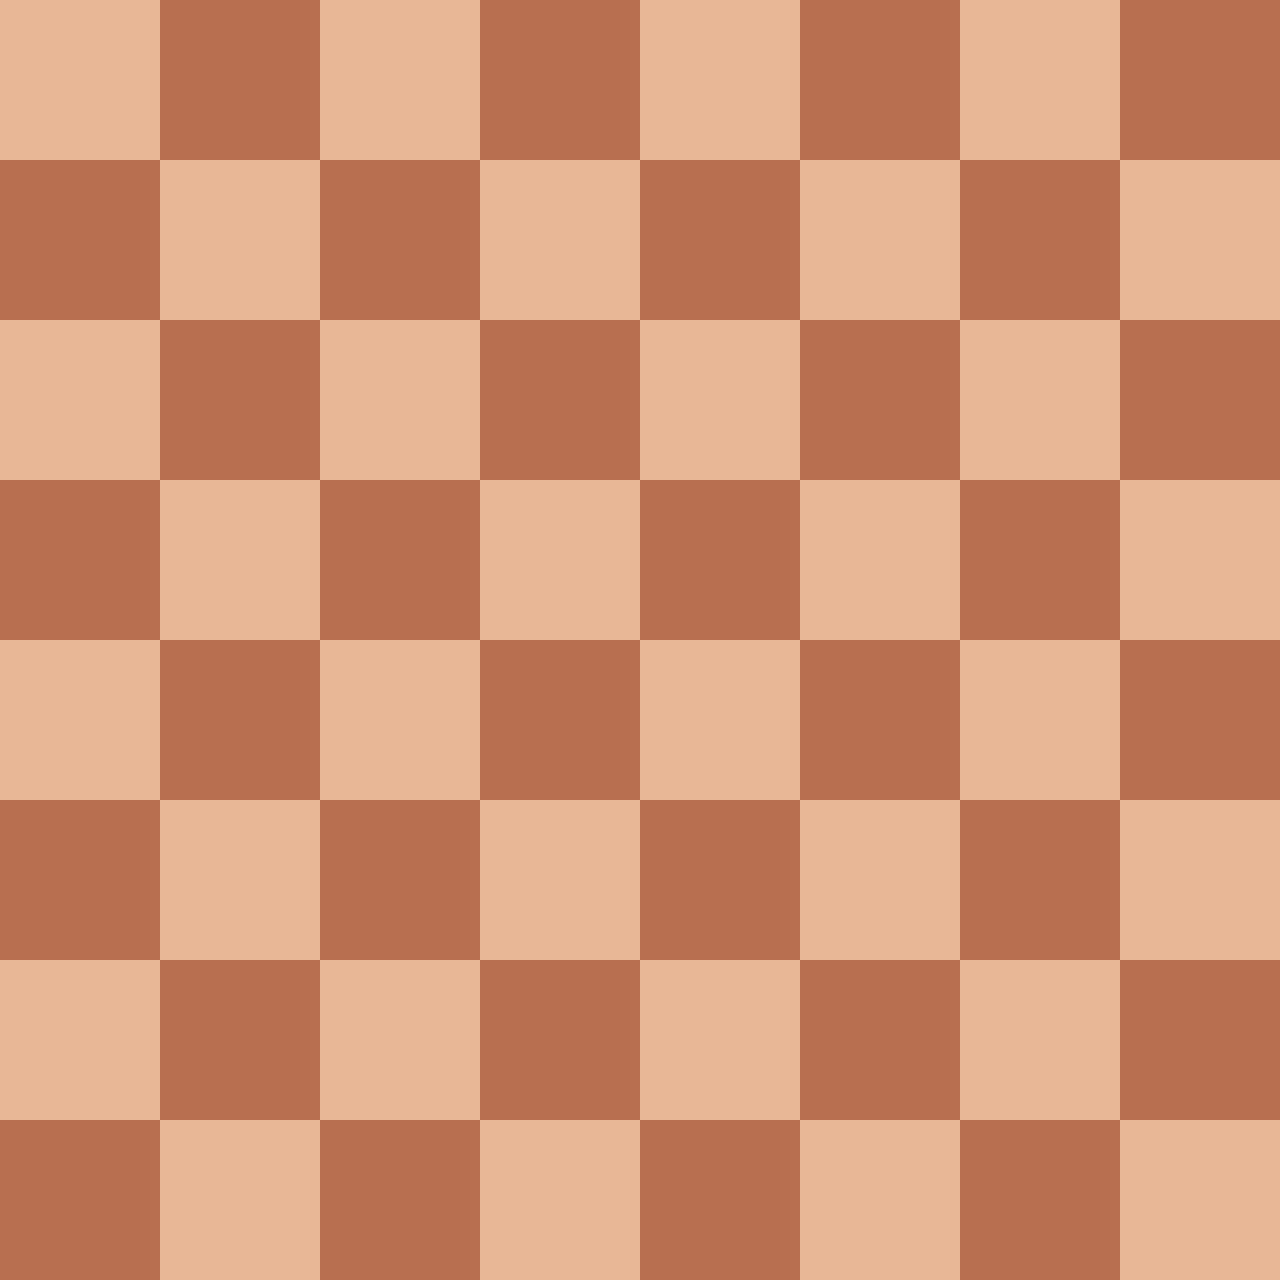
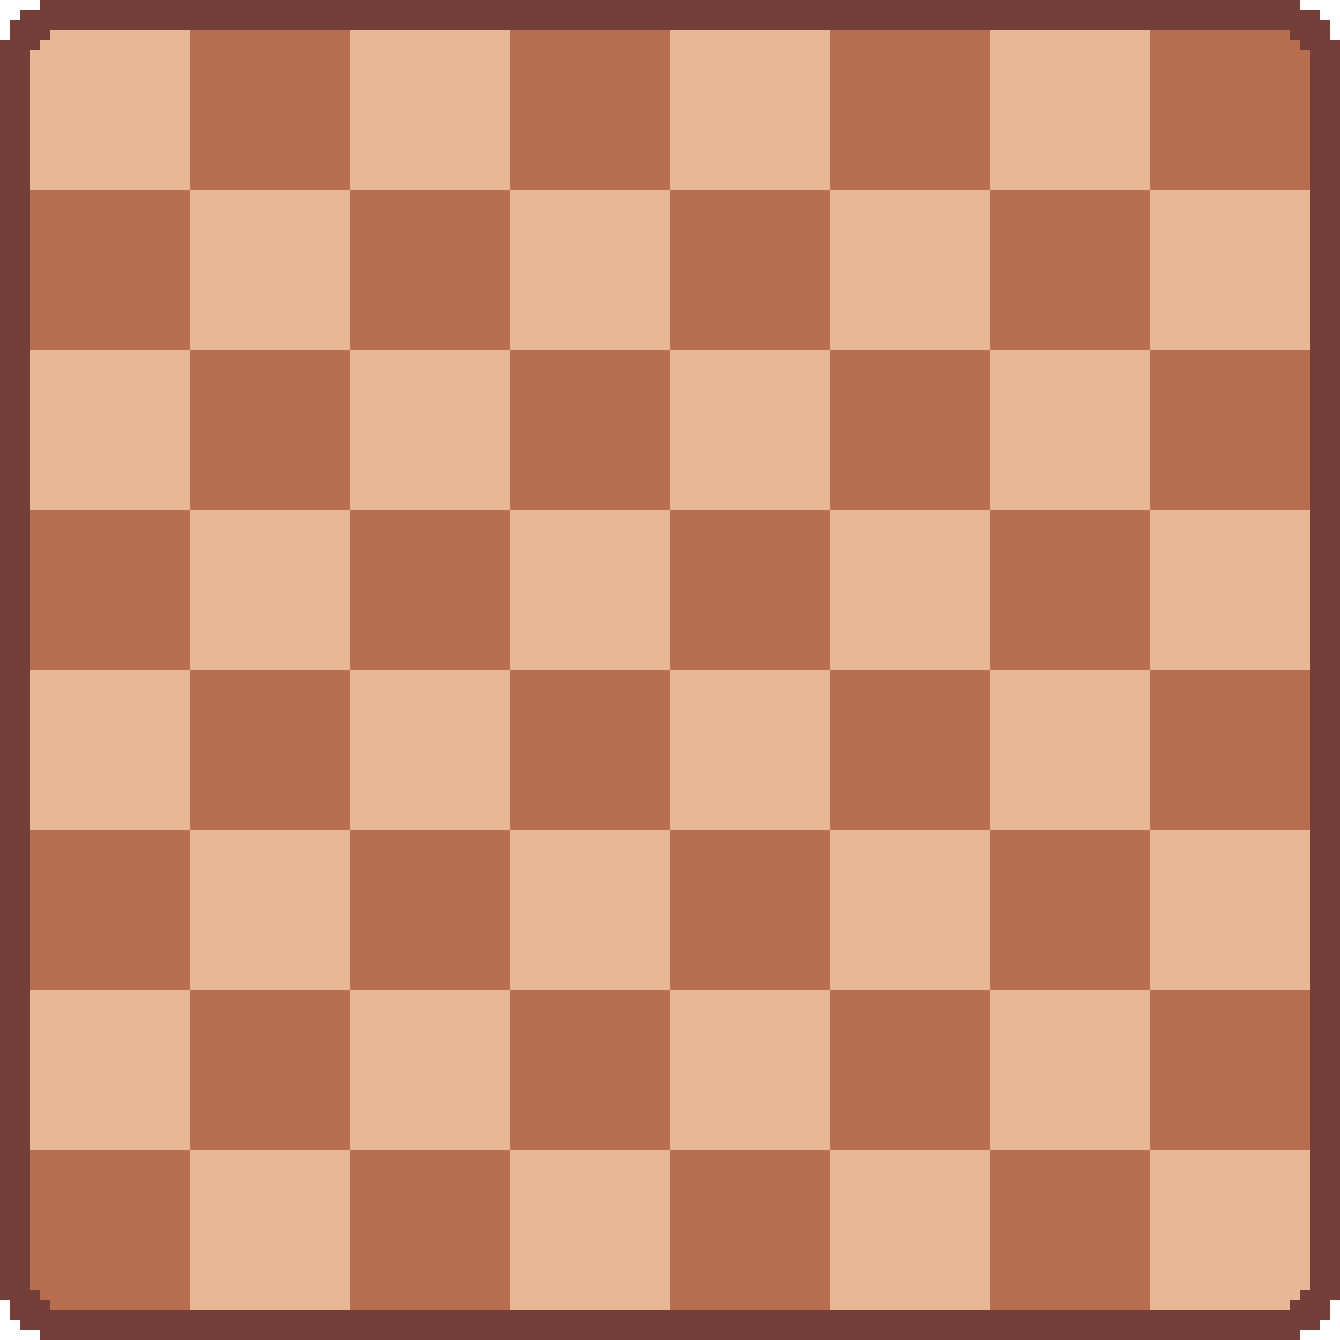
border and taken pieces panel

Changed region(s): [[0.0, 0.0, 1.0, 1.0]]

diff --git a/src/ui/mod.rs b/src/ui/mod.rs
@@ -8,6 +8,7 @@ use ggez::{event, graphics, Context, GameError, GameResult};
 use good_web_game::{self as ggez, timer};
 use good_web_game::graphics::Color;
 
+use logic::determine_taken_pieces_images;
 use miniquad::GraphicsContext;
 use std::collections::HashMap;
 
@@ -73,7 +74,7 @@ impl Engine {
     }
 
     fn load_images(ctx: &mut Context, quad_ctx: &mut GraphicsContext) -> HashMap<String, Image> {
-        [
+        let mut images = [
             ("board", "/assets/board.png"),
             ("black pawn", "/assets/pieces/piece_black_pawn.png"),
             ("black knight", "/assets/pieces/piece_black_knight.png"),
@@ -92,12 +93,59 @@ impl Engine {
         ]
         .map(|(key, value)| (key.to_string(), Image::new(ctx, quad_ctx, value).unwrap()))
         .into_iter()
-        .collect()
+        .collect::<HashMap<String, Image>>();
+
+        [
+            ("taken pieces panel empty", "/assets/taken_panel/taken_pieces_panel_empty.png"),
+            ("taken pieces panel white pawn 1", "/assets/taken_panel/taken_pieces_panel_white_pawn_1.png"),
+            ("taken pieces panel white pawn 2", "/assets/taken_panel/taken_pieces_panel_white_pawn_2.png"),
+            ("taken pieces panel white pawn 3", "/assets/taken_panel/taken_pieces_panel_white_pawn_3.png"),
+            ("taken pieces panel white pawn 4", "/assets/taken_panel/taken_pieces_panel_white_pawn_4.png"),
+            ("taken pieces panel white pawn 5", "/assets/taken_panel/taken_pieces_panel_white_pawn_5.png"),
+            ("taken pieces panel white pawn 6", "/assets/taken_panel/taken_pieces_panel_white_pawn_6.png"),
+            ("taken pieces panel white pawn 7", "/assets/taken_panel/taken_pieces_panel_white_pawn_7.png"),
+            ("taken pieces panel white pawn 8", "/assets/taken_panel/taken_pieces_panel_white_pawn_8.png"),
+            ("taken pieces panel white knight 1", "/assets/taken_panel/taken_pieces_panel_white_knight_1.png"),
+            ("taken pieces panel white knight 2", "/assets/taken_panel/taken_pieces_panel_white_knight_2.png"),
+            ("taken pieces panel white bishop 1", "/assets/taken_panel/taken_pieces_panel_white_bishop_1.png"),
+            ("taken pieces panel white bishop 2", "/assets/taken_panel/taken_pieces_panel_white_bishop_2.png"),
+            ("taken pieces panel white rook 1", "/assets/taken_panel/taken_pieces_panel_white_rook_1.png"),
+            ("taken pieces panel white rook 2", "/assets/taken_panel/taken_pieces_panel_white_rook_2.png"),
+            ("taken pieces panel white queen", "/assets/taken_panel/taken_pieces_panel_white_queen.png"),
+            ("taken pieces panel black pawn 1", "/assets/taken_panel/taken_pieces_panel_black_pawn_1.png"),
+            ("taken pieces panel black pawn 2", "/assets/taken_panel/taken_pieces_panel_black_pawn_2.png"),
+            ("taken pieces panel black pawn 3", "/assets/taken_panel/taken_pieces_panel_black_pawn_3.png"),
+            ("taken pieces panel black pawn 4", "/assets/taken_panel/taken_pieces_panel_black_pawn_4.png"),
+            ("taken pieces panel black pawn 5", "/assets/taken_panel/taken_pieces_panel_black_pawn_5.png"),
+            ("taken pieces panel black pawn 6", "/assets/taken_panel/taken_pieces_panel_black_pawn_6.png"),
+            ("taken pieces panel black pawn 7", "/assets/taken_panel/taken_pieces_panel_black_pawn_7.png"),
+            ("taken pieces panel black pawn 8", "/assets/taken_panel/taken_pieces_panel_black_pawn_8.png"),
+            ("taken pieces panel black knight 1", "/assets/taken_panel/taken_pieces_panel_black_knight_1.png"),
+            ("taken pieces panel black knight 2", "/assets/taken_panel/taken_pieces_panel_black_knight_2.png"),
+            ("taken pieces panel black bishop 1", "/assets/taken_panel/taken_pieces_panel_black_bishop_1.png"),
+            ("taken pieces panel black bishop 2", "/assets/taken_panel/taken_pieces_panel_black_bishop_2.png"),
+            ("taken pieces panel black rook 1", "/assets/taken_panel/taken_pieces_panel_black_rook_1.png"),
+            ("taken pieces panel black rook 2", "/assets/taken_panel/taken_pieces_panel_black_rook_2.png"),
+            ("taken pieces panel black queen", "/assets/taken_panel/taken_pieces_panel_black_queen.png"),
+        ]
+        .map(|(key, value)| (key.to_string(), Image::new(ctx, quad_ctx, value).unwrap()))
+        .into_iter()
+        .for_each(|(key, value)| {
+            images.insert(key, value);
+        });
+
+        for i in 0..16 {
+            let key = format!("bottom panel {}", i);
+            let value = Image::new(ctx, quad_ctx, &format!("/assets/bottom_panel/chess_bottom_panel_{}.png", i)).unwrap();
+            images.insert(key, value);
+        }
+
+        images
     }
 
     fn calculate_offsets(window_width: f32, window_height: f32) -> Point2<f32> {
-        const GAME_IMAGES_WIDTH: f32 = 1280.0;
-        const GAME_IMAGES_HEIGHT: f32 = 1280.0;
+        const GAME_IMAGES_WIDTH: f32 = 30.0 + 1280.0 + 30.0;
+        const GAME_IMAGES_HEIGHT: f32 = 30.0 + 1280.0 + 30.0 + 150.0;
 
         let scale: Vector2<f32> = Engine::calculate_scale(window_width, window_height);
 
@@ -108,8 +156,8 @@ impl Engine {
     }
 
     fn calculate_scale(window_width: f32, window_height: f32) -> Vector2<f32> {
-        const GAME_IMAGES_WIDTH: f32 = 1280.0;
-        const GAME_IMAGES_HEIGHT: f32 = 1280.0;
+        const GAME_IMAGES_WIDTH: f32 = 30.0 + 1280.0 + 30.0;
+        const GAME_IMAGES_HEIGHT: f32 = 30.0 + 1280.0 + 30.0 + 150.0;
 
         let window_ratio: f32 = window_width / window_height;
         let game_images_ratio: f32 = GAME_IMAGES_WIDTH / GAME_IMAGES_HEIGHT;
@@ -237,6 +285,19 @@ impl EventHandler<GameError> for Engine {
                         let _ = graphics::draw(ctx, quad_ctx, &image, param);
                     }
                 });
+        }
+
+        /* Taken pieces panel */
+        let image: Image = self.images.get("taken pieces panel empty").unwrap().clone();
+        let dest: Point2<f32> = Point2::new(
+            self.offsets.x + 30.0 * self.scales.x,
+            self.offsets.y + (30.0 + 1280.0 + 30.0) * self.scales.y);
+            
+        let param: DrawParam = DrawParam::new().dest(dest).scale(self.scales);
+        graphics::draw( ctx, quad_ctx, &image, param)?;
+            
+        for image in determine_taken_pieces_images(&self.images, &self.game.board) {            
+            graphics::draw( ctx, quad_ctx, &image, param)?;
         }
 
         /* Grabbed Piece */

diff --git a/src/ui/logic.rs b/src/ui/logic.rs
@@ -4,10 +4,13 @@ use ggez::cgmath::{Point2, Vector2};
 use ggez::graphics::Image;
 use good_web_game as ggez;
 
+use crate::core::board::Board;
 use crate::core::{
     piece::{Piece, PieceType},
     position::Position,
 };
+
+const BOARD_BOARDER: f32 = 30.0;
 
 fn valid_click_coordinates(x: f32, y: f32) -> bool {
     x > 0.0 && y > 0.0 && x < 1280.0 && y < 1280.0
@@ -26,14 +29,83 @@ pub fn get_position_of_coordinates(
     offsets: &Point2<f32>,
     scales: &Vector2<f32>,
 ) -> Option<Position> {
-    let logical_x: f32 = (x - offsets.x) / scales.x;
-    let logical_y: f32 = (y - offsets.y) / scales.y;
+    let logical_x: f32 = (x - offsets.x) / scales.x - BOARD_BOARDER;
+    let logical_y: f32 = (y - offsets.y) / scales.y - BOARD_BOARDER;
 
     if !valid_click_coordinates(logical_x, logical_y) {
         return None;
     }
 
     Some(get_position(logical_x, logical_y))
+}
+
+pub fn determine_taken_pieces_images(images: &HashMap<String, Image>, board: &Board) -> Vec<Image> {
+    let white_pawn_count: u32 = (board.layer_color & board.layer_pawn).count_ones();
+    let white_knight_count: u32 = (board.layer_color & board.layer_knight).count_ones();
+    let white_bishop_count: u32 = (board.layer_color & board.layer_bishop).count_ones();
+    let white_rook_count: u32 = (board.layer_color & board.layer_rook).count_ones();
+    let white_queen_count: u32 = (board.layer_color & board.layer_queen).count_ones();
+    let black_pawn_count: u32 = (!board.layer_color & board.layer_pawn).count_ones();
+    let black_knight_count: u32 = (!board.layer_color & board.layer_knight).count_ones();
+    let black_bishop_count: u32 = (!board.layer_color & board.layer_bishop).count_ones();
+    let black_rook_count: u32 = (!board.layer_color & board.layer_rook).count_ones();
+    let black_queen_count: u32 = (!board.layer_color & board.layer_queen).count_ones();
+
+    let mut result: Vec<Image> = vec![];
+
+    if white_pawn_count < 8 {
+        result.push(
+            images[&format!("taken pieces panel white pawn {}", 8 - white_pawn_count)].clone()
+        );
+    }
+    if white_knight_count < 2 {
+        result.push(
+            images[&format!("taken pieces panel white knight {}", 2 - white_knight_count)].clone()
+        );
+    }
+    if white_bishop_count < 2 {
+        result.push(
+            images[&format!("taken pieces panel white bishop {}", 2 - white_bishop_count)].clone()
+        );
+    }
+    if white_rook_count < 2 {
+        result.push(
+            images[&format!("taken pieces panel white rook {}", 2 - white_rook_count)].clone()
+        );
+    }
+    if white_queen_count < 1 {
+        result.push(
+            images["taken pieces panel white queen"].clone()
+        );
+    }
+
+    if black_pawn_count < 8 {
+        result.push(
+            images[&format!("taken pieces panel black pawn {}", 8 - black_pawn_count)].clone()
+        );
+    }
+    if black_knight_count < 2 {
+        result.push(
+            images[&format!("taken pieces panel black knight {}", 2 - black_knight_count)].clone()
+        );
+    }
+    if black_bishop_count < 2 {
+        result.push(
+            images[&format!("taken pieces panel black bishop {}", 2 - black_bishop_count)].clone()
+        );
+    }
+    if black_rook_count < 2 {
+        result.push(
+            images[&format!("taken pieces panel black rook {}", 2 - black_rook_count)].clone()
+        );
+    }
+    if black_queen_count < 1 {
+        result.push(
+            images["taken pieces panel black queen"].clone()
+        );
+    }
+
+    result
 }
 
 pub fn determine_image(images: &HashMap<String, Image>, piece: &Piece) -> Option<Image> {
@@ -59,8 +131,8 @@ pub fn determine_image_position(
     offsets: &Point2<f32>,
     scales: &Vector2<f32>,
 ) -> Point2<f32> {
-    let x: f32 = offsets.x + 160.0 * scales.x * (position.column as f32);
-    let y: f32 = offsets.y + 160.0 * scales.y * ((7 - position.row) as f32);
+    let x: f32 = offsets.x + scales.x * (BOARD_BOARDER + 160.0 * (position.column as f32));
+    let y: f32 = offsets.y + scales.y * (BOARD_BOARDER + 160.0 * ((7 - position.row) as f32));
 
     Point2::new(x, y)
 }
